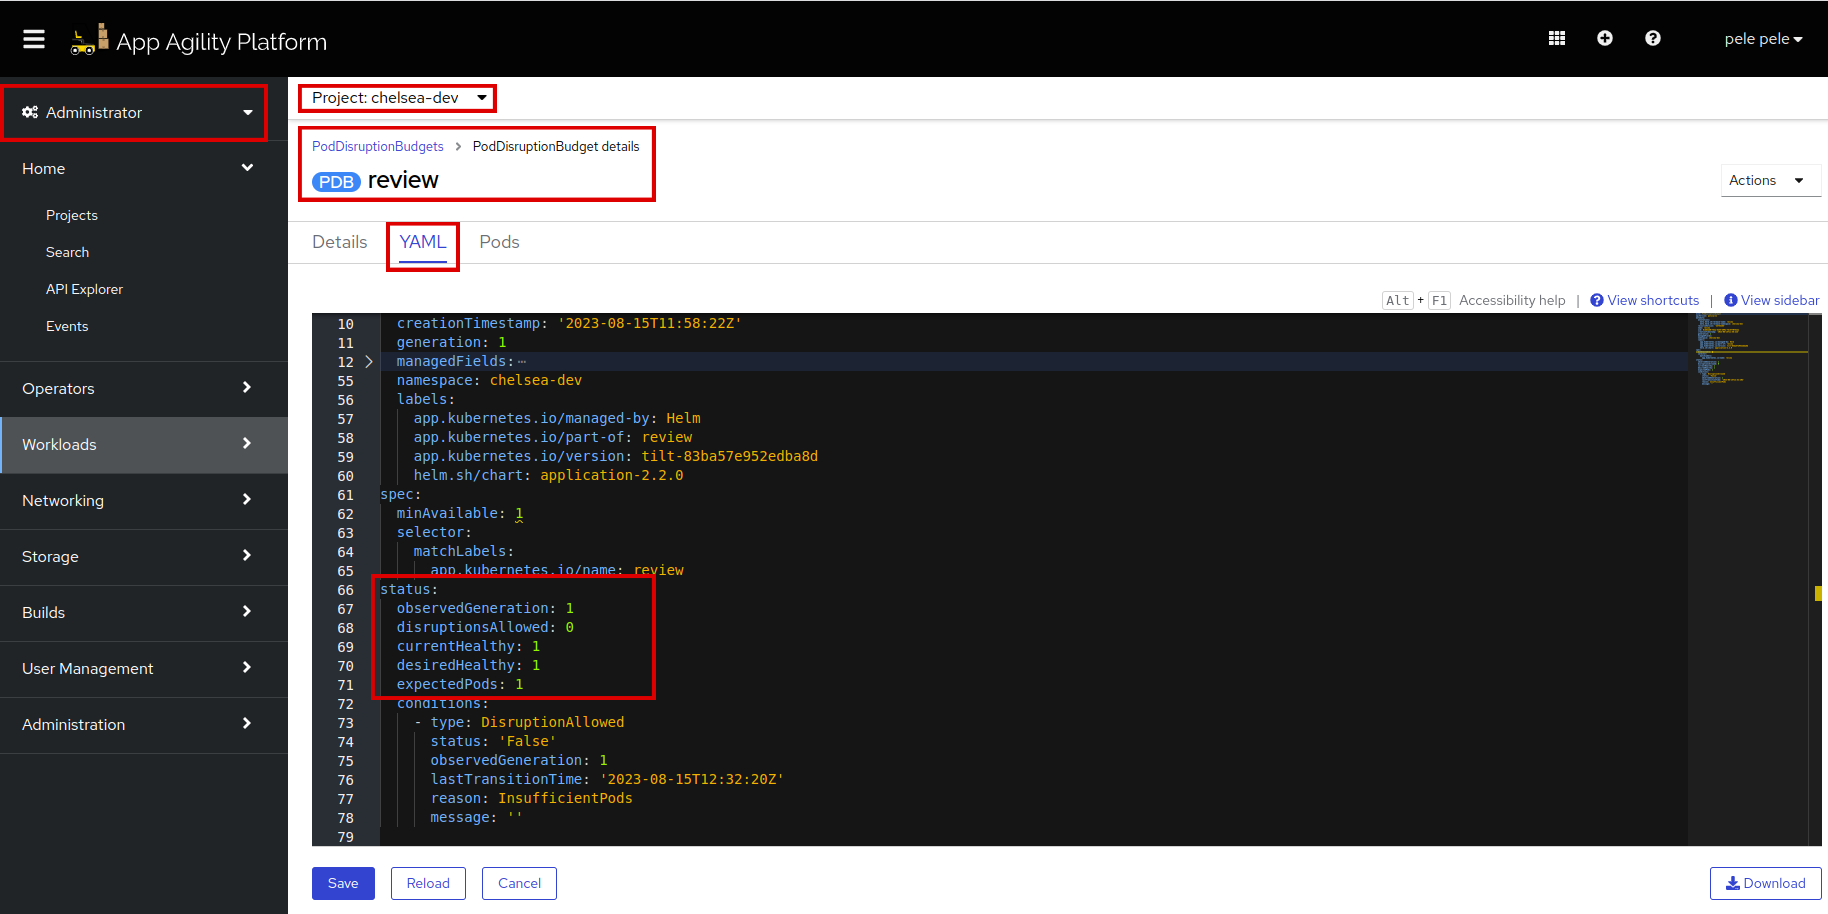
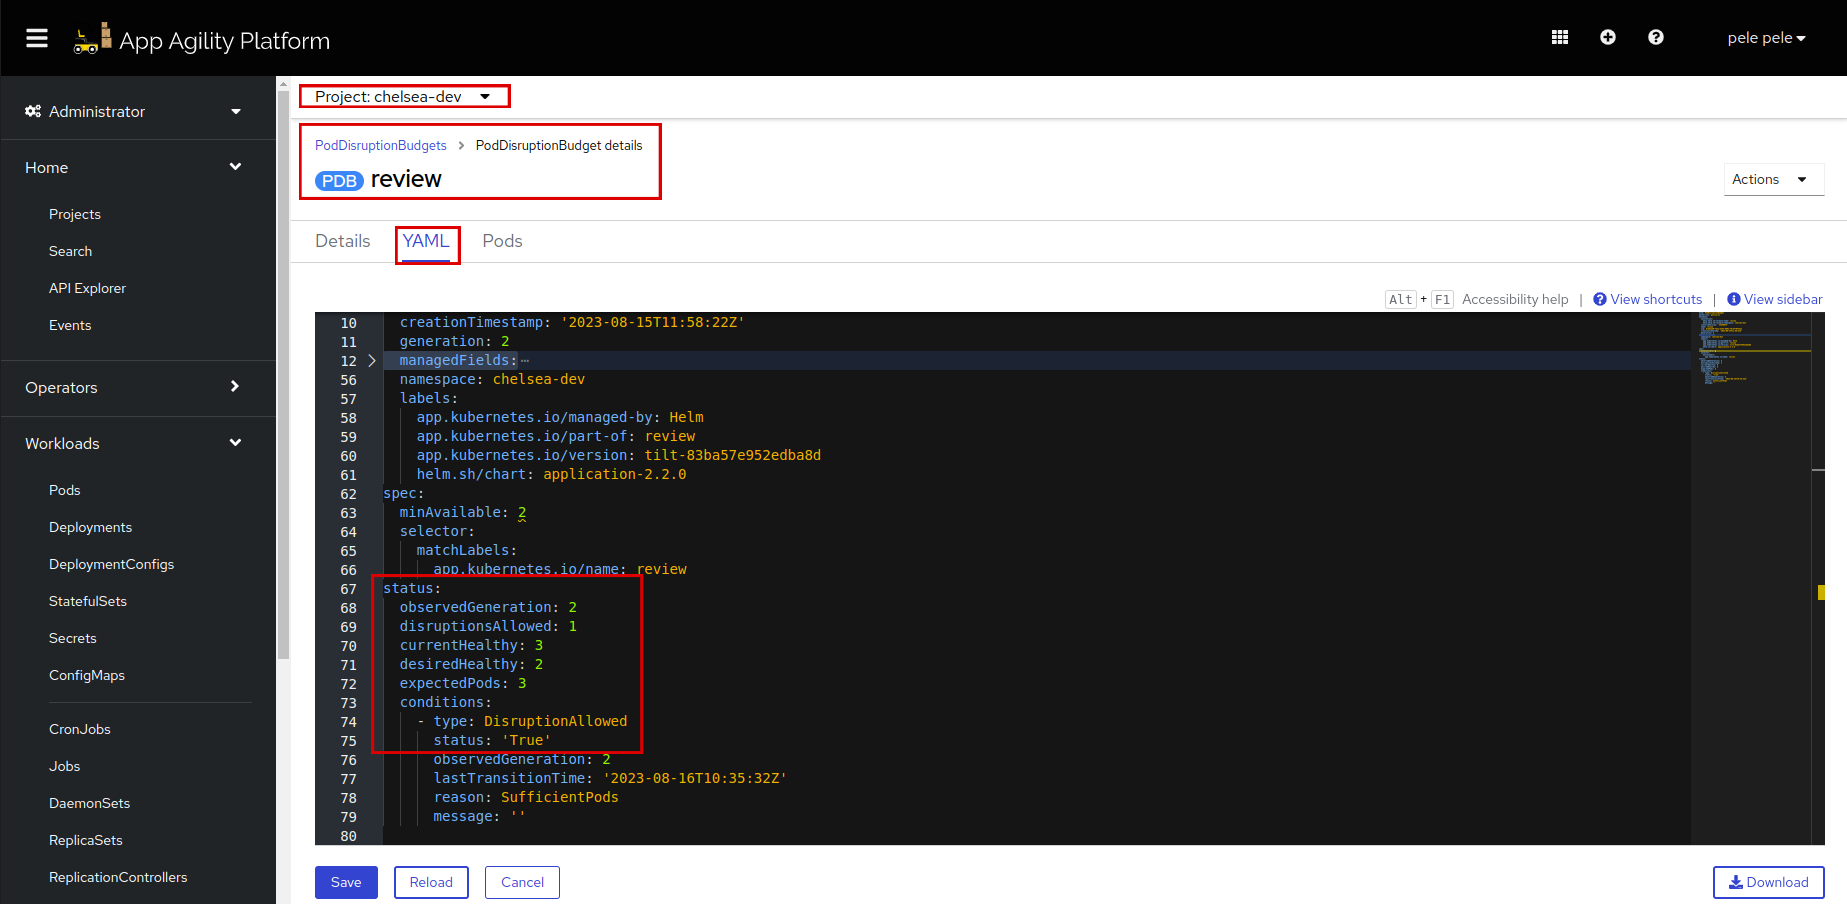
Fixes done

diff --git a/content/for-developers/tutorials/inner-loop/add-pdb/add-pdb.md b/content/for-developers/tutorials/inner-loop/add-pdb/add-pdb.md
@@ -6,6 +6,7 @@ In this tutorial, you will learn how to use Pod Disruption Budgets (PDBs) to man
 
 ## Objectives
 
+- Enable replicas.
 - Configure a Pod Disruption Budget for an application deployed on SAAP.
 - Observe the behavior of the PDB by deleting a pod and analyzing the changes in PDB status.
 
@@ -15,6 +16,23 @@ In this tutorial, you will learn how to use Pod Disruption Budgets (PDBs) to man
 
 ## Tutorial
 
+Let's scaled up number of `replicas` to see how `pdb` works.
+
+1. Add `replicas: 3` in `deploy/values.yaml`.
+
+    ```yaml
+    # Scale up replicas
+    replicas: 3 # Number of replicas
+    ```
+
+    It should look like this
+
+    ![replicas values](images/replicas-values.png)
+
+    Make sure **autoscaling** is `enabaled: false`, or you can scale up the `minReplicas` to match the replicas, that way you don't need to disable autoscaling.
+
+    > Note: The indentation should be **application.deployment.replicas**.
+
 1. Enable `pdb` in your `deploy/values.yaml` file. Add the following yaml:
 
     ```yaml
@@ -23,44 +41,52 @@ In this tutorial, you will learn how to use Pod Disruption Budgets (PDBs) to man
         # Set PDB enabled to true to activate the Pod Disruption Budget.
       enabled: true
         # Specify the minimum number of available pods during disruptions. In this case, ensure at least 1 pod is available at all times.
-      minAvailable: 1
-        # Specify the maximum number of pods that can be unavailable simultaneously. During disruptions, allow up to 2 pods to be unavailable.
+      minAvailable: 2
+        # Specify the maximum number of pods that can be unavailable simultaneously during disruptions
       maxUnavailable: 2
     ```
 
     It should look like this:
 
-    ![pdb values](images/pdb-values.png)
+    ![PDB values](images/pdb-values.png)
 
     > Note: The indentation should be **application.pdb**.
 
 1. Save and run `tilt up` at the root of your directory. Hit the space bar and the browser with `TILT` logs will be shown. If everything is green then the changes will be deployed on the cluster.
 
-    Let's see if our `pdb` has deployed.
+    Let's see number od replicas.
 
-1. Log in to SAAP. Go to Administrator > Home > Search and search for `pdb`.
+1. Log in to SAAP. In your namespace check if the replicaSet has created number of replicaCounts which is `3`.
+
+    ![number of pods](images/number-of-pods.png)
+
+1. To check if `pdb` is created, switch to your namespace, go to Administrator > Home > Search and search for `pdb`.
 
     ![pdb search](images/search-pdb.png)
 
 1. Click on `PodDisruptionBudget` and see the newly created `pdb` named `review`.
 
-    ![review-pdb](images/review-pdb.png)
+    ![review PDB](images/review-pdb.png)
 
-1. Click on `review` `pdb`. Go to `YAML` and scroll down and see the `status` of `pdb`. Check out the status and `currentHealthy: 1`, `desiredHealthy: 1`.
+1. Click on `review` `pdb`. Go to `YAML`, scroll down and see the `status` of `pdb`. Check out the status and `currentHealthy: 3`, `desiredHealthy: 2` which satisfies the condition of `minAvailable: 2`. We can see the `DisruptionAllowed` status is `true`.
 
-    ![review pdb yaml](images/review-pdb-yaml.png)
+    ![review PDB yaml](images/review-pdb-yaml.png)
 
-    Let's create a disruption and see if `pdb` works accurately.
+1. let's scale down the replicas to create a disruption and see if `pdb` works accurately.
 
-1. Delete the `review` pod to and check the `pdb status`.
+    ```sh
+    oc scale deployment review --replicas=1 -n <your-namespace>
+    ```
 
-    ![delete review pod](images/delete-pod.png)
+    As soon as the replicas are scaled down, the `pdb` condition will enforce `replicaSet` to make sure the minimum replicas are available.
 
-1. Go to `pdb review`, and check the `status` now. Click on reload. Now look at the `currentHealthy: 0`, which clealy shows that `pdb` is working fine.
+    ![scale down pods](images/scale-down.png)
 
-    ![new status pdb](images/new-status-pdb.png)
+1. Go to `pdb review`, and check the `status` now. Click on reload. Now look at the `currentHealthy: 1`, which clealy shows that `pdb` is working fine.
 
-    As soon as the pod is deleted, a new pod will be created and `pdb status` will change to `currentHealthy: 1`. Click on `reload` and you will see the updated status.
+    ![after disruption](images/after-disruption.png)
+
+    As soon as the pods are recreated, `pdb status` will change to `currentHealthy: 3` which meets the condition perfectly. Click on `reload` and you will see the updated status.
 
 Remember that the behavior of the `PDB` and the speed at which it restores pod availability may be influenced by factors such as node resources, cluster conditions, and pod scheduling rules. It's important to give the system some time to react and observe how it gradually restores the desired number of healthy pods according to the `PDB` constraints.
 
